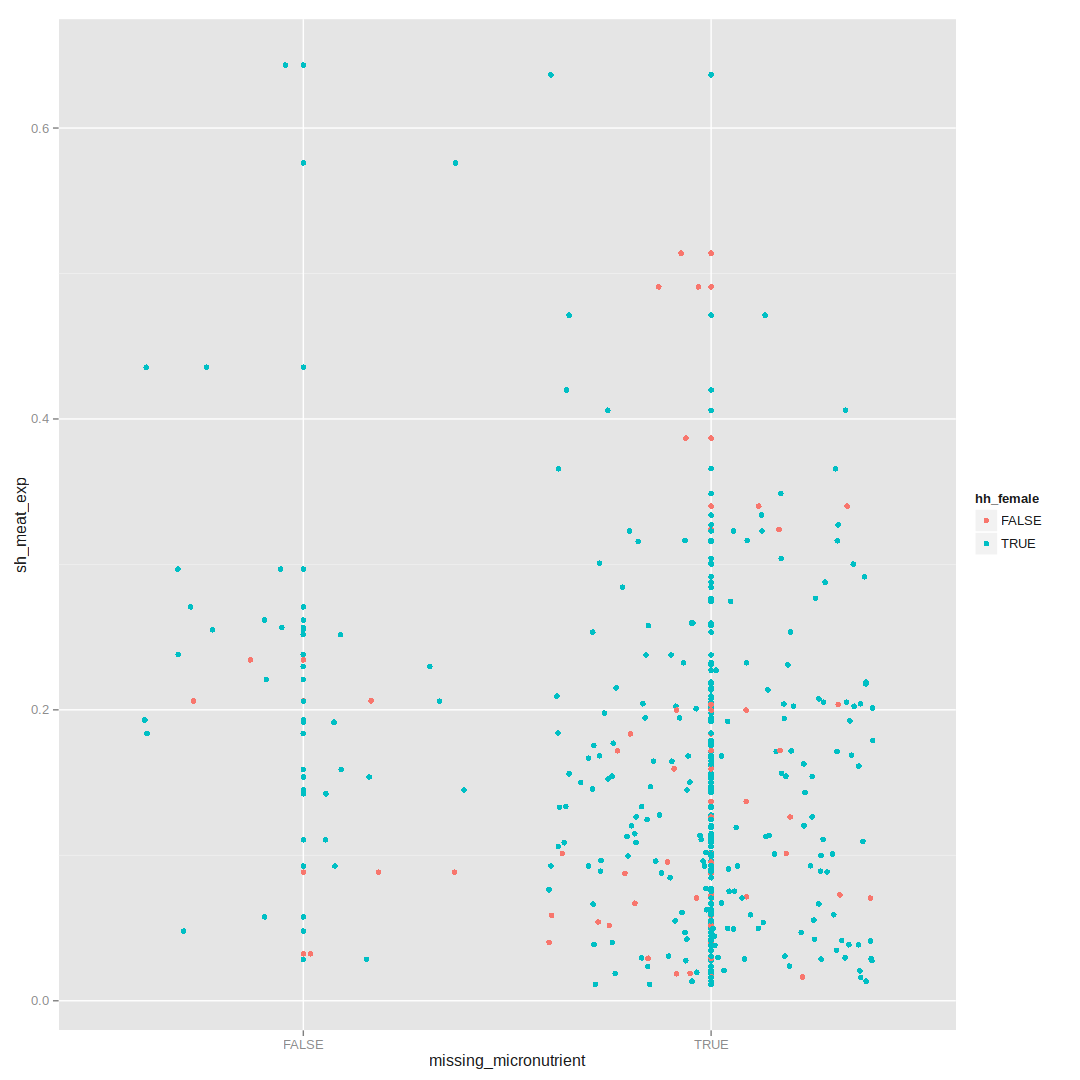
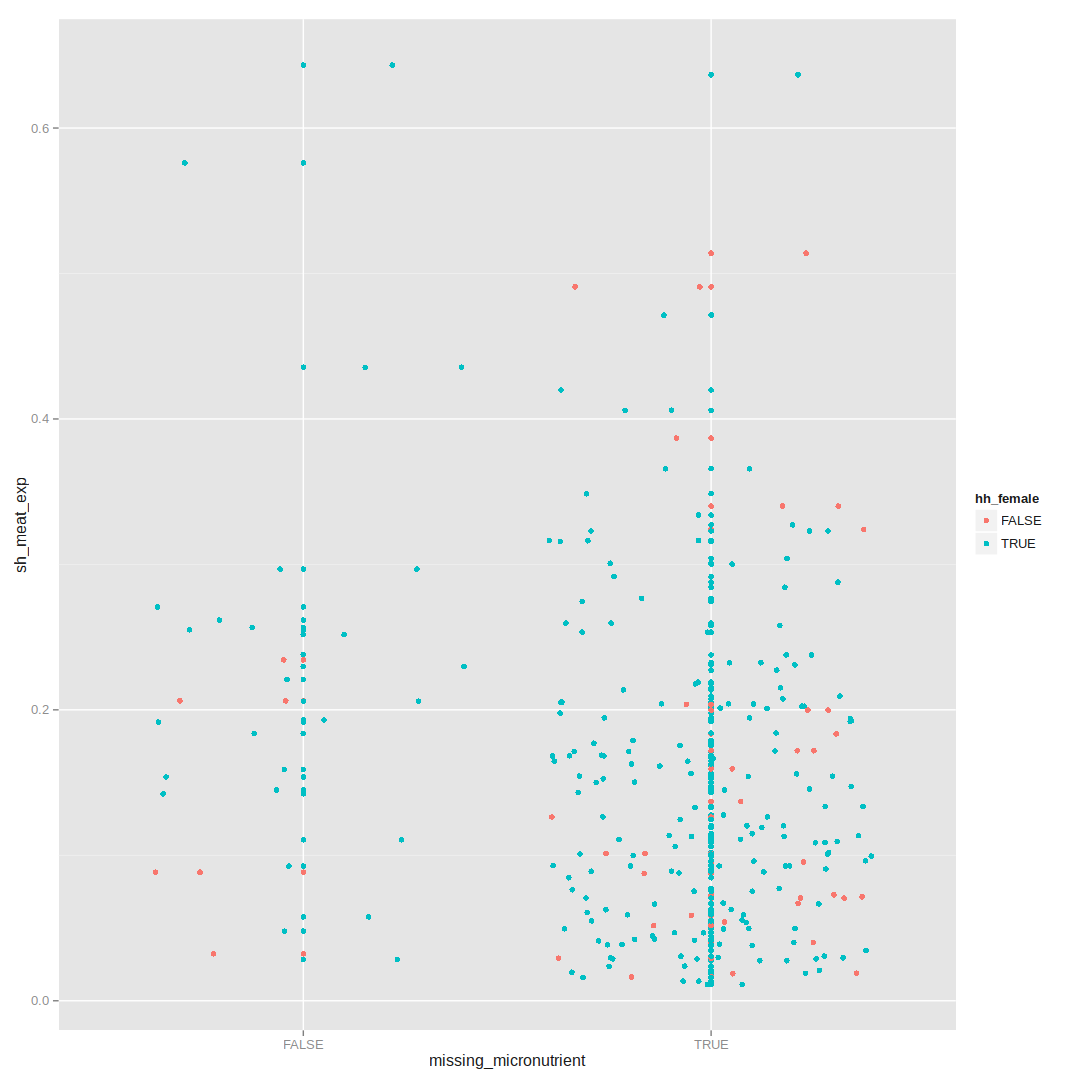
last commit for now...

diff --git a/README.md b/README.md
@@ -110,6 +110,43 @@ for (x in dec_types) {
 # Gender colors
 gender_colors = ifelse(mwi_anthro_clean$sex == 'Male', 'red', 'blue')
 
+# Create columns corresponding to gender ratio in each household
+hh_gender_composition = mwi %>%
+    group_by(hhid) %>% 
+    summarise(num_males=sum(sex == 'Male'), 
+              num_females=sum(sex == 'Female')) %>%
+    mutate(ratio_female = num_females / (num_females + num_males))
+
+mwi = merge(mwi, hh_gender_composition)
+
+# most common missing micronutrients
+colSums(mwi%>% select(contains('def_')))
+```
+
+    def_kcal_rec_hh     def_kcal_req_hh     def_prot_rec_hh 
+                 71                 106                 203 
+    def_prot_req_hh     def_iron_rec_hh     def_iron_req_hh 
+                216                  11                  71 
+    def_zinc_rec_hh     def_zinc_req_hh   def_vita_A_rec_hh 
+                 29                  59                 173 
+
+def\_vita\_A\_req\_hh def\_vita\_E\_rec\_hh def\_vita\_E\_req\_hh 227 84 117 def\_vita\_C\_rec\_hh def\_vita\_C\_req\_hh def\_ribof\_rec\_hh 257 322 216 def\_ribof\_req\_hh def\_thia\_rec\_hh def\_thia\_req\_hh 301 305 354 def\_nia\_rec\_hh def\_nia\_req\_hh def\_vita\_B6\_rec\_hh 167 243 218 def\_vita\_B6\_req\_hh def\_fol\_rec\_hh def\_fol\_req\_hh 287 51 94 def\_calcium\_rec\_hh def\_calcium\_req\_hh def\_vita\_B12\_rec\_hh 8 8 134 def\_vita\_B12\_req\_hh def\_kcal\_ae\_hh 134 429
+
+``` r
+# Add a column: missing one or more key micronutrients: Iron, Zinc, Folate, Vitamin A
+mwi = mwi %>% mutate(missing_micronutrient=(def_iron_rec_hh == TRUE     | 
+                                            def_fol_rec_hh == TRUE      | 
+                                            def_calcium_rec_hh == TRUE  | 
+                                            def_thia_rec_hh == TRUE     | 
+                                            def_vita_A_rec_hh == TRUE   | 
+                                            def_vita_B6_rec_hh == TRUE  | 
+                                            def_vita_B12_rec_hh == TRUE | 
+                                            def_vita_C_rec_hh == TRUE   | 
+                                            def_vita_E_rec_hh == TRUE   |
+                                            def_zinc_rec_hh == TRUE     |
+                                            def_ribof_rec_hh == TRUE
+                                            ))
+
 # Numeric part of anthropometry data
 antho_clean_mat = as.matrix(mwi_anthro_clean %>% select(haz06, waz06, whz06, bmiz06))
 ```
@@ -130,6 +167,8 @@ title("Biplot")
 
 ![](README_files/figure-markdown_github/biplot-1.png) \#\#\#\#\# Heatmap
 
+###### Anthro data
+
 ``` r
 # Heatmap
 heatmap.2(antho_clean_mat, trace='none', dendrogram='row', RowSideColors=gender_colors)
@@ -137,11 +176,19 @@ heatmap.2(antho_clean_mat, trace='none', dendrogram='row', RowSideColors=gender_
 
 ![](README_files/figure-markdown_github/heatmap-1.png)
 
+###### Micronutrients
+
 ``` r
-# Ethiopia
-#eth_nutrition = read_csv('./nutrition_indicators/Ethiopia/eth_nutrition.csv')
-#eth_anthropometry = read_csv('./nutrition_indicators/Ethiopia/eth_anthropometry.csv')
+gender_colors = ifelse(mwi$sex == 'Male', 'red', 'blue')
+
+x = mwi %>% select(contains('def_'))
+x[x==TRUE] = 1
+x[x==FALSE] = 0
+x = as.matrix(x)
+heatmap.2(x, trace='none', RowSideColors=gender_colors)
 ```
+
+![](README_files/figure-markdown_github/heatmap_extended-1.png)
 
 ### Nutrition
 
@@ -156,15 +203,6 @@ ggplot(mwi, aes(bmiz06, fill=sex)) + geom_density(alpha=0.75)
 #### BMI relationship to household gender composition?
 
 ``` r
-# Create columns corresponding to gender ratio in each household
-hh_gender_composition = mwi %>%
-    group_by(hhid) %>% 
-    summarise(num_males=sum(sex == 'Male'), 
-              num_females=sum(sex == 'Female')) %>%
-    mutate(ratio_female = num_females / (num_females + num_males))
-
-mwi = merge(mwi, hh_gender_composition)
-
 table(mwi$ratio_female)
 ```
 
@@ -219,46 +257,6 @@ for (group in split(dec_types, ceiling(seq_along(dec_types) / 5))) {
 #### Aggregate micronutrients
 
 ``` r
-# most common missing micronutrients
-colSums(mwi%>% select(contains('def_')))
-```
-
-    ##     def_kcal_rec_hh     def_kcal_req_hh     def_prot_rec_hh 
-    ##                  71                 106                 203 
-    ##     def_prot_req_hh     def_iron_rec_hh     def_iron_req_hh 
-    ##                 216                  11                  71 
-    ##     def_zinc_rec_hh     def_zinc_req_hh   def_vita_A_rec_hh 
-    ##                  29                  59                 173 
-    ##   def_vita_A_req_hh   def_vita_E_rec_hh   def_vita_E_req_hh 
-    ##                 227                  84                 117 
-    ##   def_vita_C_rec_hh   def_vita_C_req_hh    def_ribof_rec_hh 
-    ##                 257                 322                 216 
-    ##    def_ribof_req_hh     def_thia_rec_hh     def_thia_req_hh 
-    ##                 301                 305                 354 
-    ##      def_nia_rec_hh      def_nia_req_hh  def_vita_B6_rec_hh 
-    ##                 167                 243                 218 
-    ##  def_vita_B6_req_hh      def_fol_rec_hh      def_fol_req_hh 
-    ##                 287                  51                  94 
-    ##  def_calcium_rec_hh  def_calcium_req_hh def_vita_B12_rec_hh 
-    ##                   8                   8                 134 
-    ## def_vita_B12_req_hh      def_kcal_ae_hh 
-    ##                 134                 429
-
-``` r
-# Add a column: missing one or more key micronutrients: Iron, Zinc, Folate, Vitamin A
-mwi = mwi %>% mutate(missing_micronutrient=(def_iron_rec_hh == TRUE     | 
-                                            def_fol_rec_hh == TRUE      | 
-                                            def_calcium_rec_hh == TRUE  | 
-                                            def_thia_rec_hh == TRUE     | 
-                                            def_vita_A_rec_hh == TRUE   | 
-                                            def_vita_B6_rec_hh == TRUE  | 
-                                            def_vita_B12_rec_hh == TRUE | 
-                                            def_vita_C_rec_hh == TRUE   | 
-                                            def_vita_E_rec_hh == TRUE   |
-                                            def_zinc_rec_hh == TRUE     |
-                                            def_ribof_rec_hh == TRUE
-                                            ))
-
 table(mwi$missing_micronutrient)
 ```
 
